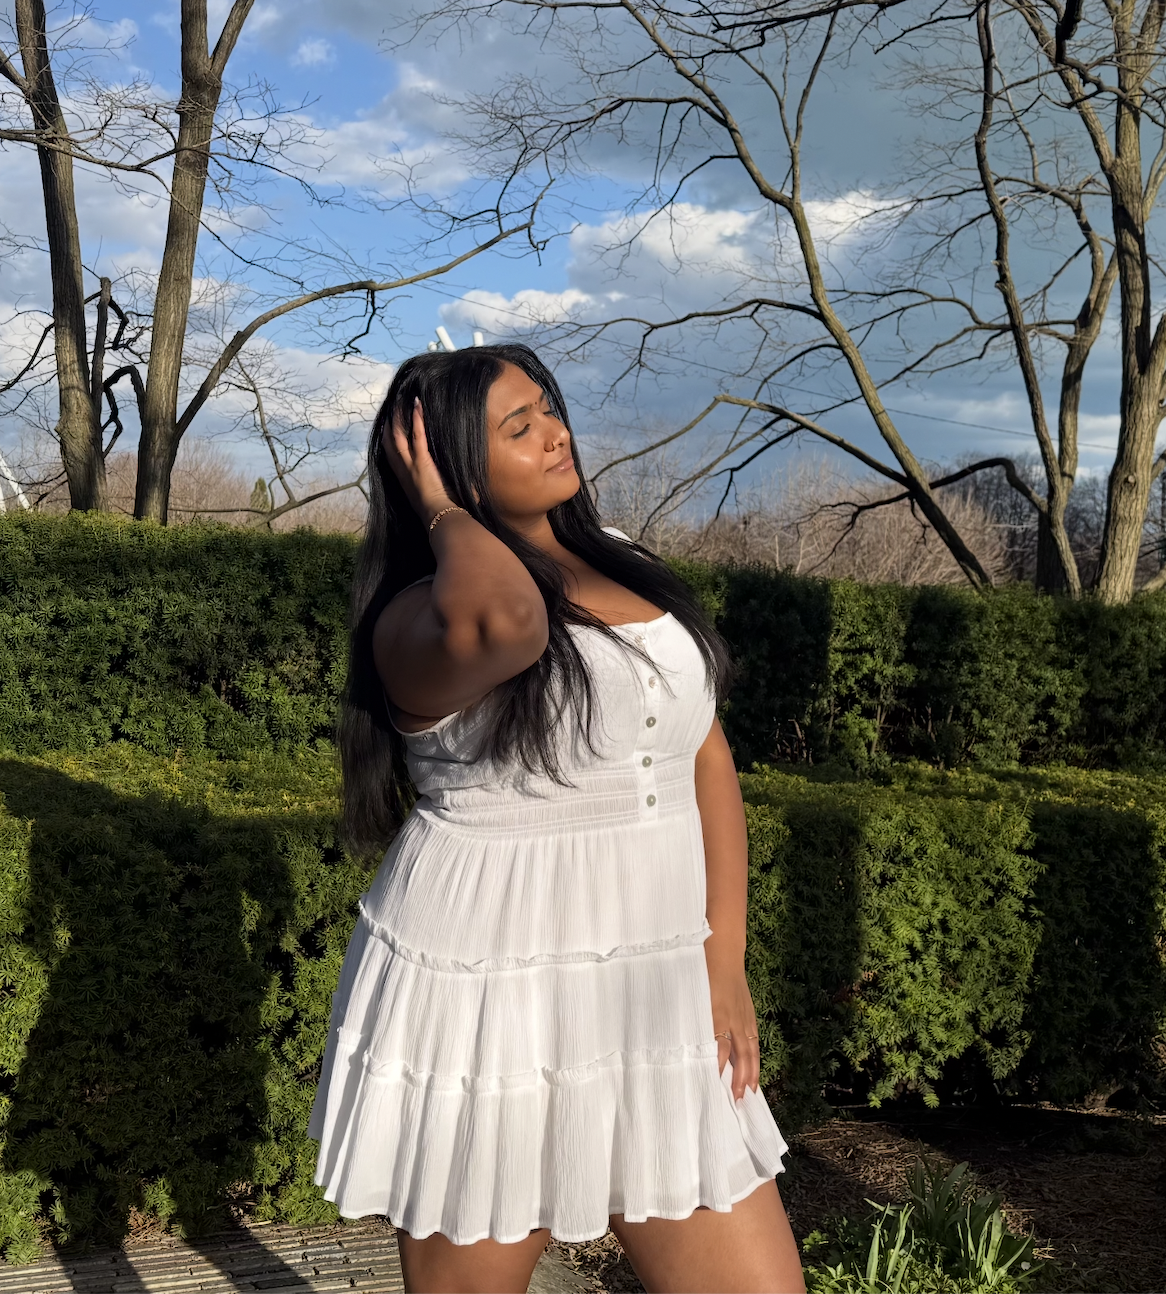
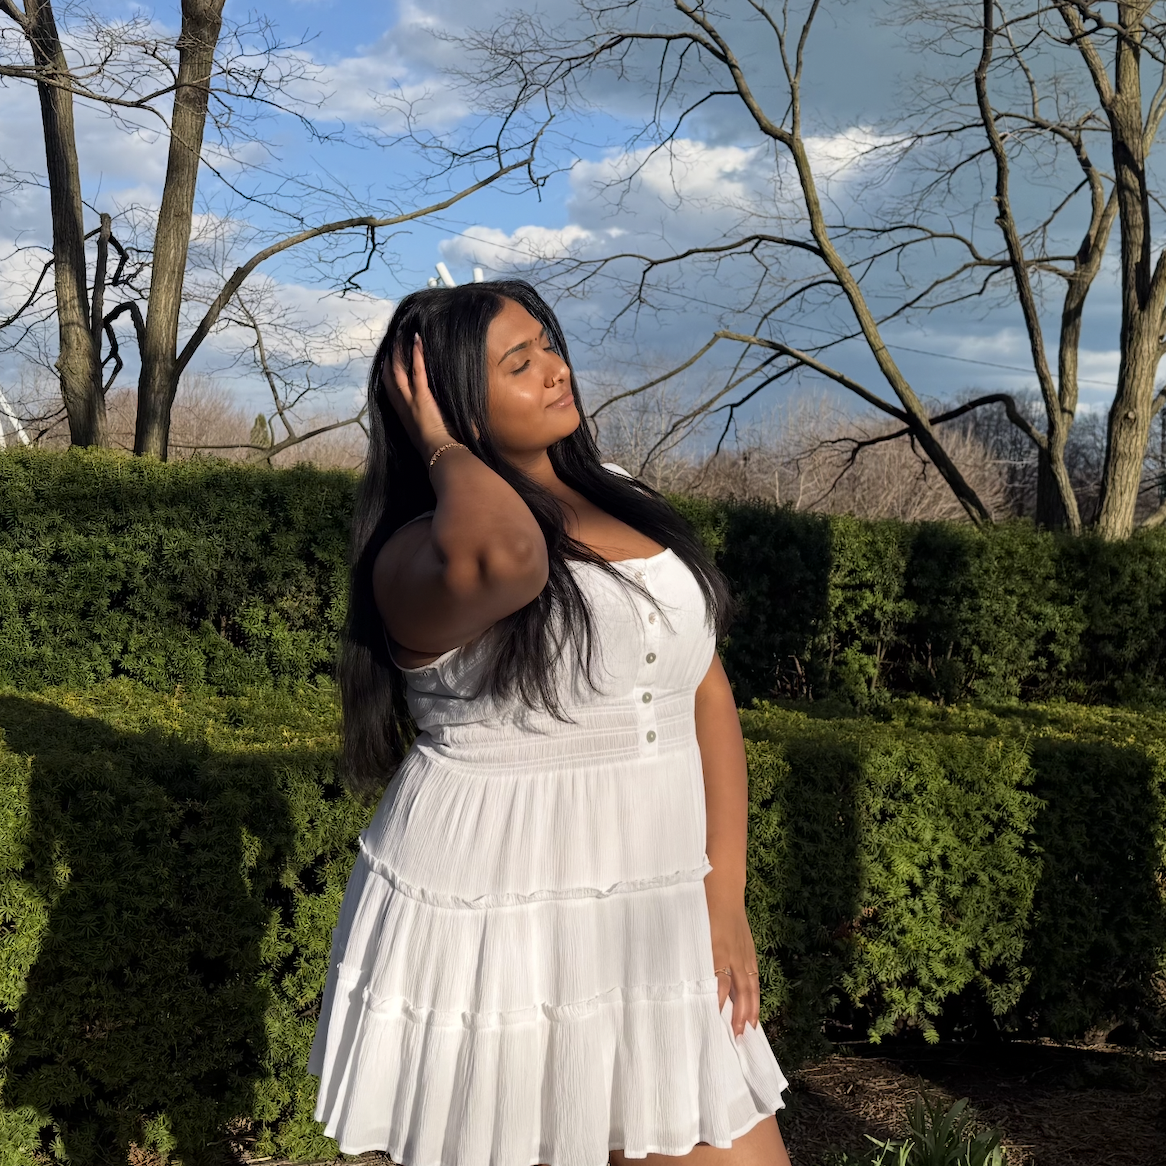
fixed board picture sizes

diff --git a/pages/board.js b/pages/board.js
@@ -6,11 +6,11 @@ export default function Board() {
   return (
     <div >
       <Head>
-        <title>WiCyS Illinois</title>
+        <title>WiCyS Illinois | Board</title>
         <link rel="icon" href="https://www.wicys.org/wp-content/uploads/2020/10/favicon-wicys.png" />
       </Head>
       <Header title="Executive Board Members" />
-      <h1>Meet the 2024-2025 Board!</h1>
+      <h1>Meet the 2026-2027 Board!</h1>
       <main>
         <div className={styles.boardimages}>
         <p className={styles.description}> 
@@ -18,81 +18,81 @@ export default function Board() {
           <br/>wicys@illinois:~$ cat Board.txt
         </p>
         <br></br>
-        <hr></hr>
+        <p class={styles.boardname}>-------------------------------------------------------------------------</p>
         <img src = "/michaela-briones.png"></img>
         <p class={styles.description}>wicys@illinois:~$ su President<br/>President@illinois:~$ whoami</p>
         <p class={styles.boardnames}>Michaela Briones<br/>President<br/>Junior in Computer Science</p>
         <br/>
         <br/>
         <br/>
-        <hr></hr>
+        <p class={styles.boardname}>-------------------------------------------------------------------------</p>
         <div/>
         <img src = "/madison-lee.png"></img>
         <p class={styles.description}>wicys@illinois:~$ su VicePresident<br/>VicePresident@illinois:~$ whoami</p>
-        <p class={styles.boardnames}>Madison Lee<br/>Vice President<br/>Junior in Information Sciences + Data Science</p>
+        <p class={styles.boardnames}>Madison Lee<br/>Vice President<br/>Senior in Information Sciences<br/> + Data Science</p>
         <br/>
         <br/>
         <br/>
-        <hr></hr>
+        <p class={styles.boardname}>-------------------------------------------------------------------------</p>
         <img src = "/ally-stedman.png"></img>
         <p class={styles.description}>wicys@illinois:~$ su Treasurer<br/>Treasurer@illinois:~$ whoami</p>
-        <p class={styles.boardnames}>Ally Stedman<br/>Treasurer<br/>Junior in Computer Science w/ Linguistics Minor</p>
+        <p class={styles.boardnames}>Ally Stedman<br/>Treasurer<br/>Junior in Computer Science<br/>w/ Linguistics Minor</p>
         <br/>
         <br/>
         <br/>
-        <hr></hr>
+        <p class={styles.boardname}>-------------------------------------------------------------------------</p>
         <img src = "/nikitha-srinivasan.png"></img>
         <p class={styles.description}>wicys@illinois:~$ su CorporateChair<br/>CorporateChair@illinois:~$ whoami</p>  
-        <p class={styles.boardnames}>Nikitha Srinivasan<br/>Corporate Chair<br/>Senior in Information Sciences + Data Science w/ CS Minor</p>
+        <p class={styles.boardnames}>Nikitha Srinivasan<br/>Corporate Chair<br/>Senior in Information Sciences<br/> + Data Science w/ CS Minor</p>
         <br/>
         <br/>
         <br/>
-        <hr></hr>
-        <img src = "/elina-lee.png"></img>
-        <p class={styles.description}>wicys@illinois:~$ su PublicRelationsChair<br/>PublicRelationsChair@illinois:~$ whoami</p>
+        <p class={styles.boardname}>-------------------------------------------------------------------------</p>
+        <img src = "/elina-lee.jpg"></img>
+        <p class={styles.description}>wicys@illinois:~$ su PRChair<br/>PRChair@illinois:~$ whoami</p>
         <p class={styles.boardnames}>Elina Lee<br/>Public Relations Chair<br/>Junior in Information Sciences</p>
         <br/>
         <br/>
         <br/>
-        <hr></hr>
+        <p class={styles.boardname}>-------------------------------------------------------------------------</p>
         <img src = "/aashna-anand.png"></img>
-        <p class={styles.description}>wicys@illinois:~$ su InfrastructureChair<br/>InfrastructureChair@illinois:~$ whoami</p>
+        <p class={styles.description}>wicys@illinois:~$ su InfraChair<br/>InfraChair@illinois:~$ whoami</p>
         <p class={styles.boardnames}>Aashna Anand<br/>Infrastructure Chair<br/>Sophomore in Computer Science</p>
         <br/>
         <br/>
         <br/>
-        <hr></hr>
+        <p class={styles.boardname}>-------------------------------------------------------------------------</p>
         <img src = "/ria-sinha.png"></img>
-        <p class={styles.description}>wicys@illinois:~$ su EngineeringOpenHouseChair<br/>EngineeringOpenHouseChair@illinois:~$ whoami</p>
+        <p class={styles.description}>wicys@illinois:~$ su EOHChair<br/>EOHChair@illinois:~$ whoami</p>
         <p class={styles.boardnames}>Ria Sinha<br/>Engineering Open House Chair<br/>Junior in Computer Science</p>
         <br/>
         <br/>
         <br/>
-        <hr></hr>
+        <p class={styles.boardname}>-------------------------------------------------------------------------</p>
         <img src = "/prajna-kurella.png"></img>
-        <p class={styles.description}>wicys@illinois:~$ su TechnicalLead1<br/>TechnicalLead1@illinois:~$ whoami</p>
-        <p class={styles.boardnames}>Prajna Kurella<br/>Technical Lead<br/>Junior in Information Sciences w/ CS Minor</p>
+        <p class={styles.description}>wicys@illinois:~$ su TechLead1<br/>TechLead1@illinois:~$ whoami</p>
+        <p class={styles.boardnames}>Prajna Kurella<br/>Technical Lead<br/>Junior in Information Sciences<br/> w/ CS Minor</p>
         <br/>
         <br/>
         <br/>
-        <hr></hr>
+        <p class={styles.boardname}>-------------------------------------------------------------------------</p>
         <img src = "/emily-karbowniczek.png"></img>
-        <p class={styles.description}>wicys@illinois:~$ su TechnicalLead2<br/>TechnicalLead2@illinois:~$ whoami</p>
+        <p class={styles.description}>wicys@illinois:~$ su TechLead2<br/>TechLead2@illinois:~$ whoami</p>
         <p class={styles.boardnames}>Emily Karbowniczek<br/>Technical Lead<br/>Junior in Computer Science</p>
         <br/>
         <br/>
         <br/>
-        <hr></hr>
+        <p class={styles.boardname}>-------------------------------------------------------------------------</p>
         <img src = "/harini-sridhar.png"></img>
-        <p class={styles.description}>wicys@illinois:~$ su TechnicalLead3<br/>TechnicalLead3@illinois:~$ whoami</p>
+        <p class={styles.description}>wicys@illinois:~$ su TechLead3<br/>TechLead3@illinois:~$ whoami</p>
         <p class={styles.boardnames}>Harini Sridhar<br/>Technical Lead<br/>Sophomore in Computer Science</p>
         <br/>
         <br/>
         <br/>
-        <hr></hr>
+        <p class={styles.boardname}>-------------------------------------------------------------------------</p>
         <img src = "/sanvi-singh.png"></img>
-        <p class={styles.description}>wicys@illinois:~$ su TechnicalLead4<br/>TechnicalLead4@illinois:~$ whoami</p>
-        <p class={styles.boardnames}>Sanvi Singh<br/>Technical Lead<br/>Junior in Information Sciences + Data Science w/ CS Minor</p>
+        <p class={styles.description}>wicys@illinois:~$ su TechLead4<br/>TechLead4@illinois:~$ whoami</p>
+        <p class={styles.boardnames}>Sanvi Singh<br/>Technical Lead<br/>Junior in Information Sciences<br/> + Data Science w/ CS Minor</p>
         </div>
       </main>
       <Footer />
